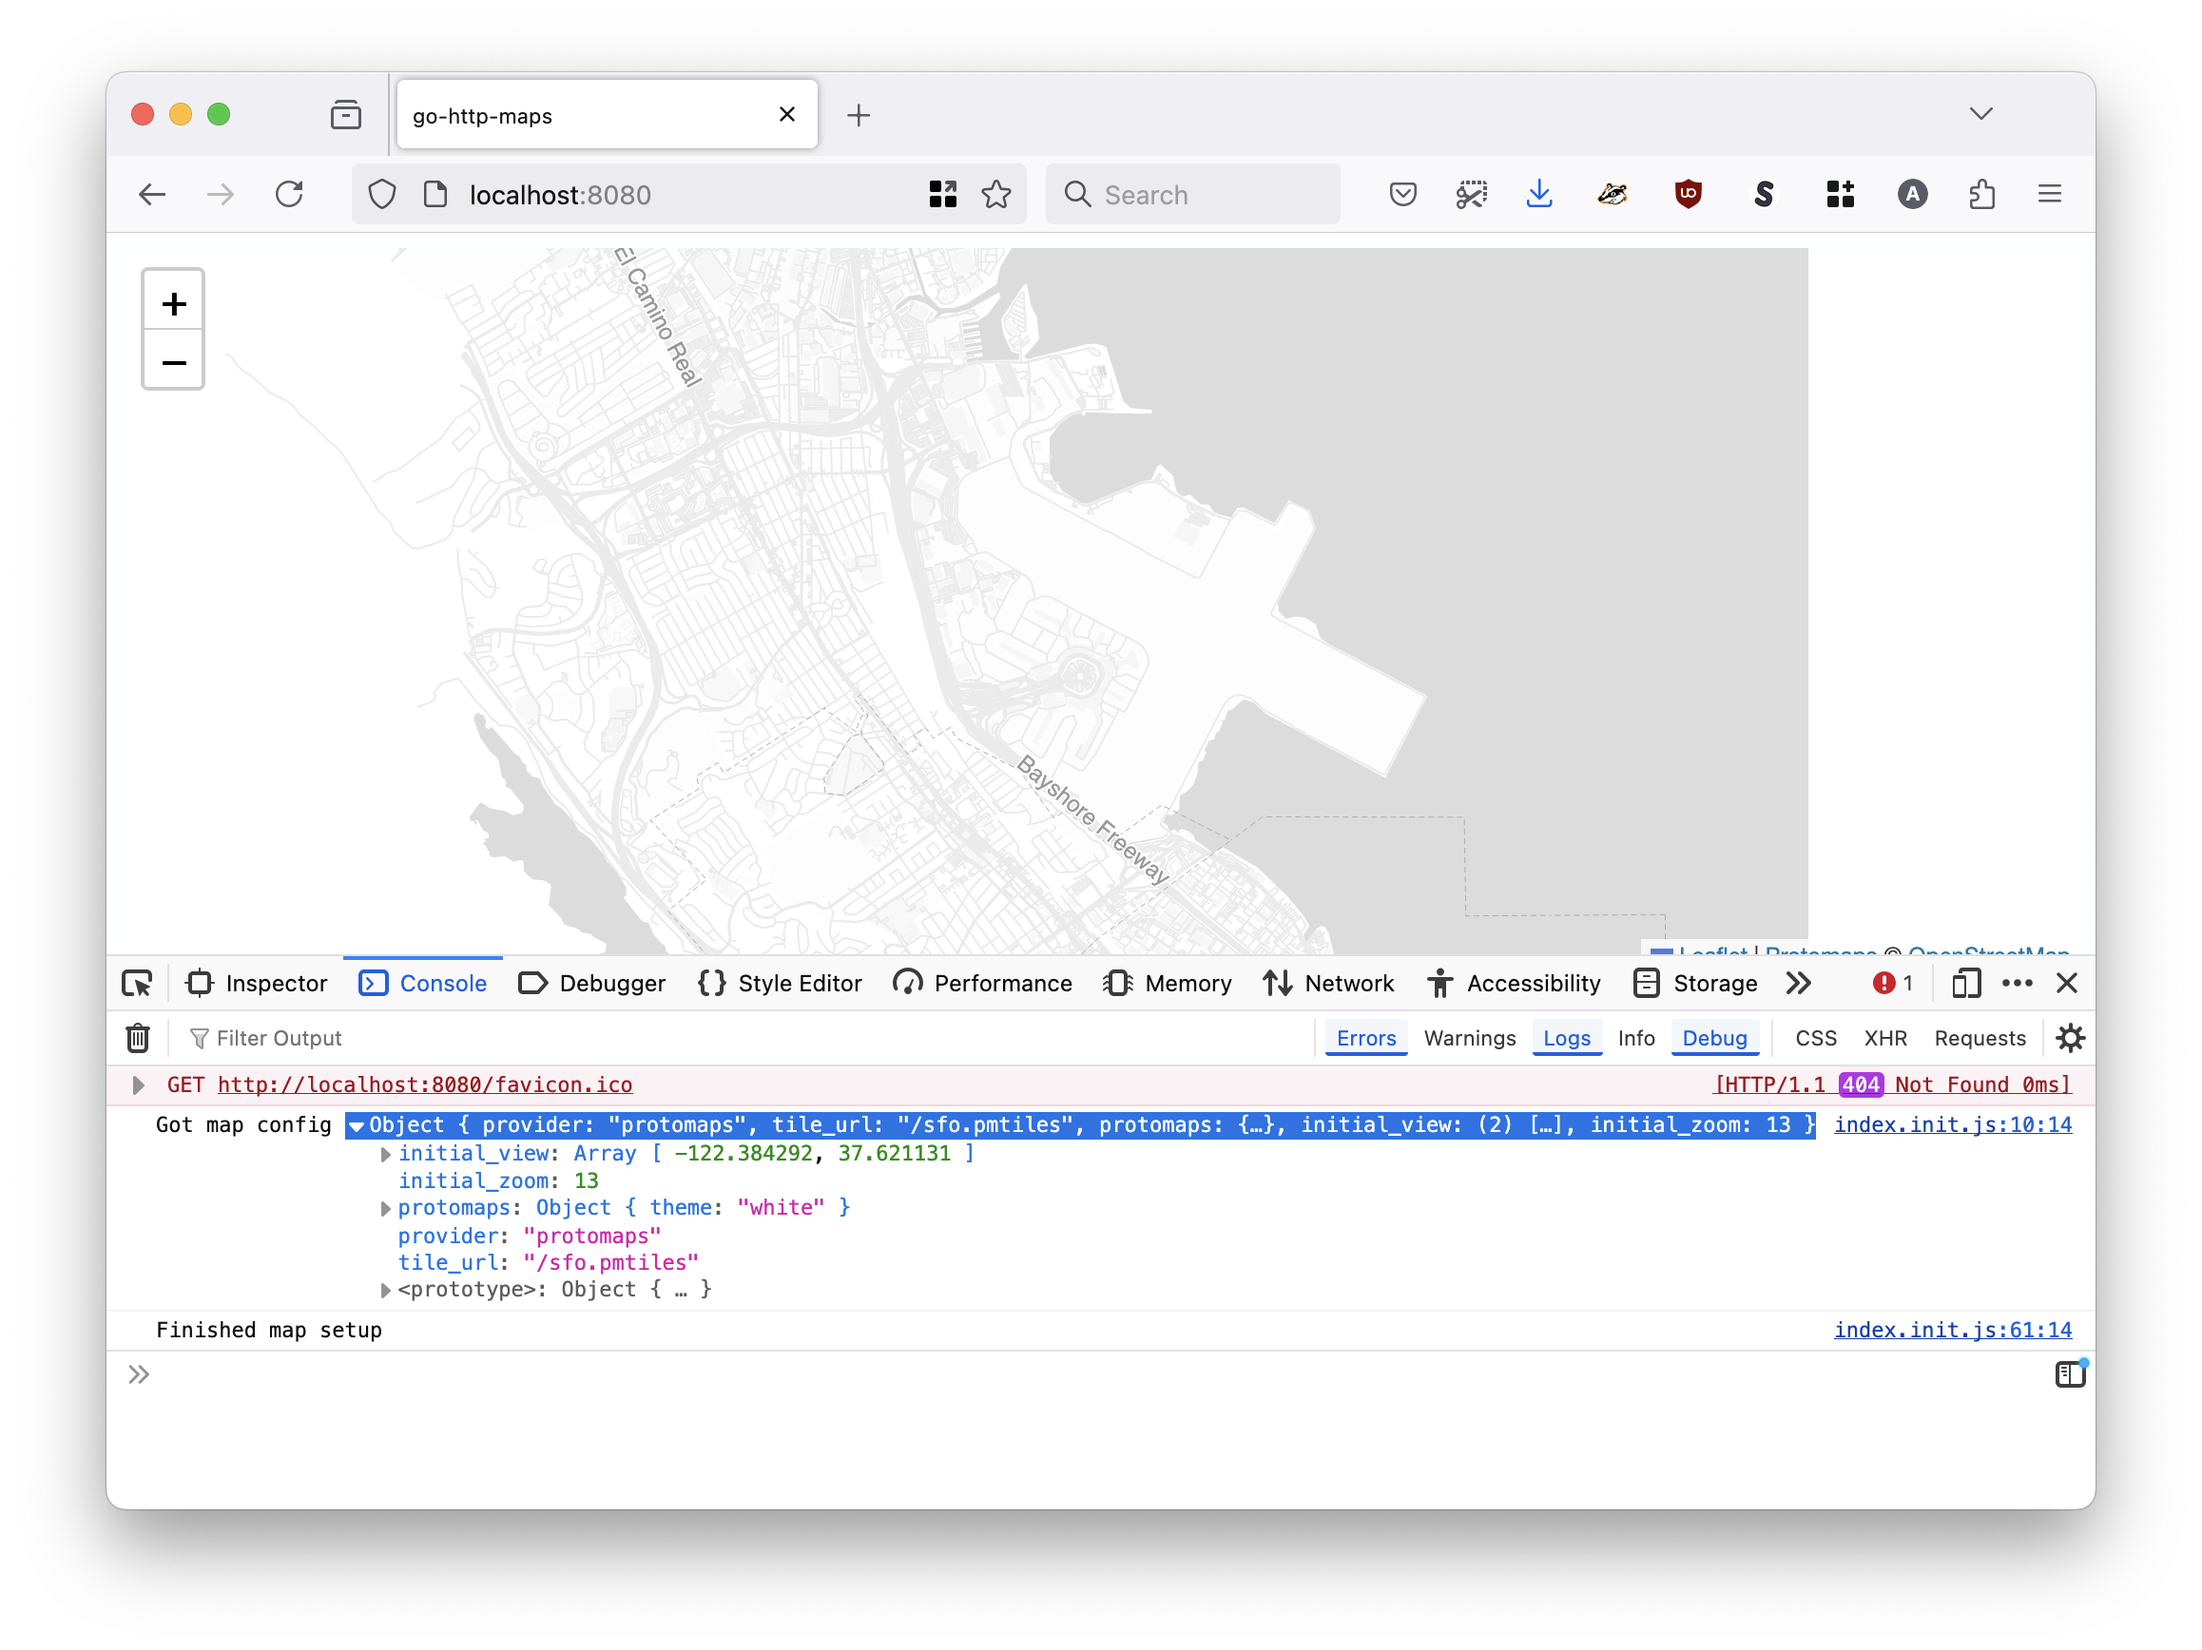
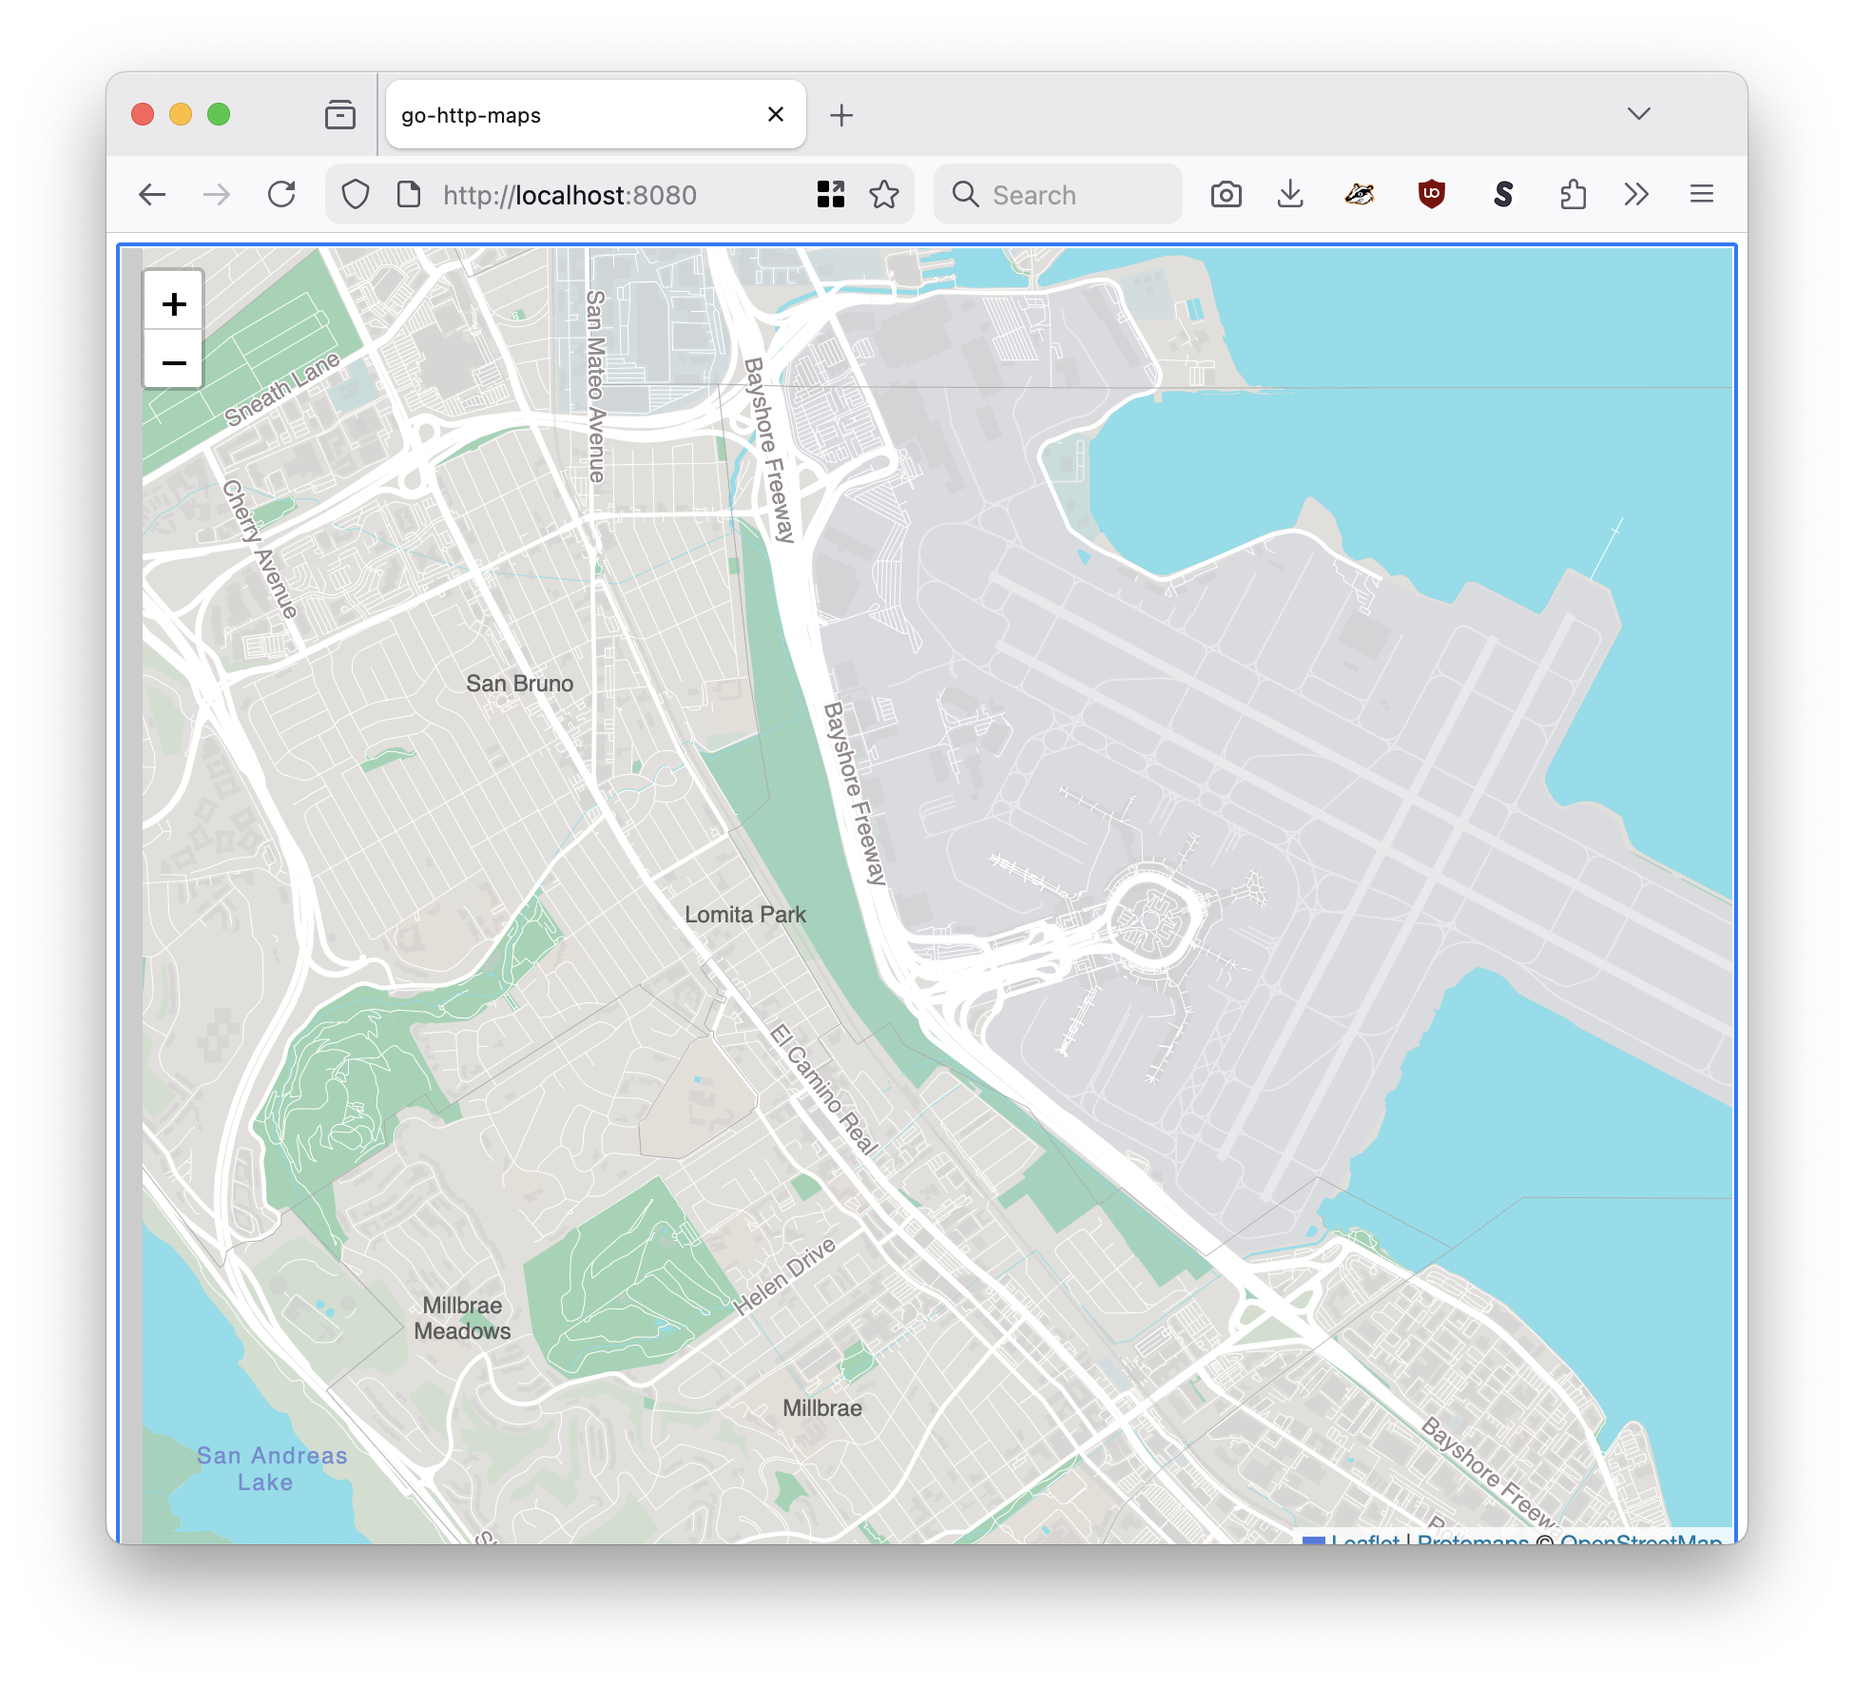
update docs

diff --git a/static/www/javascript/index.init.js b/static/www/javascript/index.init.js
@@ -26,81 +26,79 @@ window.addEventListener("load", function load(event){
 
 		case "protomaps":
 
-		    cfg.protomaps.theme = null;
-		    cfg.protomaps.paintRules = [
-			{
-			    dataLayer:"water",
-			    symbolizer:new protomapsL.PolygonSymbolizer({fill:"#354855"})
-			},
-			{
-			    dataLayer: "roads",
-			    symbolizer: new protomapsL.LineSymbolizer({color:"#fff"}),
-			},
-			{
-			    dataLayer: "landuse",
-			    symbolizer:new protomapsL.PolygonSymbolizer({fill:"#cccccc"})
-			},
-			{
-			    dataLayer: "landuse",
-			    symbolizer:new protomapsL.PolygonSymbolizer({fill:"#999"}),
-			    filter: (props, ignore) => {
-				
-				if (props["area:aeroway"] == "runway"){
-				    return true;
-				}
-				
-				if (props["area:aeroway"] == "taxiway"){
-				    return true;
-				}
-				
-				if (props["aeroway"] == "runway"){
-				    return true;
-				}
-				
-				if (props["aeroway"] == "aerodrome"){
-				    return true;
-				}
-				
-				return false;
-			    }
-			},
-			{
-			    dataLayer: "transit",
-			    symbolizer: new protomapsL.LineSymbolizer({color:"#000"}),
-			    filter: (props, ignore) => {
-				
-				if (props["pmap:kind"] = "aeroway"){
-				    return true;
-				}
-				
-				return false;
-			    }
-			}
-		    ];
-		    
 		    leaflet_map = L.map('map').setView(null_island, 1);
 
 		    var tile_args = {
 			url: cfg.tile_url,
+			flavor: cfg.protomaps.theme,
 		    };
 
-		    if (cfg.protomaps.theme){
-			tile_args.flavor = cfg.protomaps.theme;
-		    }
+		    var tile_layer = protomapsL.leafletLayer(tile_args);		    
+		    tile_layer.addTo(leaflet_map);
+		    break;
+		    
+		case "protomaps-paint":
 
-		    if (cfg.protomaps.paintRules){
-			tile_args.paintRules = cfg.protomaps.paintRules;
-		    }
-
-		    if (cfg.protomaps.labelRules){
-			tile_args.labelRules = cfg.protomaps.labelRules;
-		    }
+		    var tile_args = {
+			url: cfg.tile_url,
+			paintRules:  [
+			    {
+				dataLayer:"water",
+				symbolizer:new protomapsL.PolygonSymbolizer({fill:"#354855"})
+			    },
+			    {
+				dataLayer: "roads",
+				symbolizer: new protomapsL.LineSymbolizer({color:"#fff"}),
+			    },
+			    {
+				dataLayer: "landuse",
+				symbolizer:new protomapsL.PolygonSymbolizer({fill:"#cccccc"})
+			    },
+			    {
+				dataLayer: "landuse",
+				symbolizer:new protomapsL.PolygonSymbolizer({fill:"#999"}),
+				filter: (props, ignore) => {
+				    
+				    if (props["area:aeroway"] == "runway"){
+					return true;
+				    }
+				    
+				    if (props["area:aeroway"] == "taxiway"){
+					return true;
+				    }
+				    
+				    if (props["aeroway"] == "runway"){
+					return true;
+				    }
+				    
+				    if (props["aeroway"] == "aerodrome"){
+					return true;
+				    }
+				    
+				    return false;
+				}
+			    },
+			    {
+				dataLayer: "transit",
+				symbolizer: new protomapsL.LineSymbolizer({color:"#000"}),
+				filter: (props, ignore) => {
+				    
+				    if (props["pmap:kind"] = "aeroway"){
+					return true;
+				    }
+				    
+				    return false;
+				}
+			    }
+			],
+		    };
+			
+		    leaflet_map = L.map('map').setView(null_island, 1);
 		    
 		    var tile_layer = protomapsL.leafletLayer(tile_args);
 		    
 		    tile_layer.addTo(leaflet_map);
 		    break;
-
 
                 case "protomaps-raster":
 		    

diff --git a/http.go b/http.go
@@ -158,8 +158,8 @@ func MapConfigFromOptions(opts *AssignMapConfigHandlerOptions) (*MapConfig, erro
 		}
 	}
 
-	switch opts.MapProvider {
-	case "leaflet":
+	switch {
+	case opts.MapProvider == "leaflet":
 
 		if opts.LeafletStyle != "" || opts.LeafletPointStyle != "" {
 
@@ -190,7 +190,7 @@ func MapConfigFromOptions(opts *AssignMapConfigHandlerOptions) (*MapConfig, erro
 			map_cfg.Leaflet = leaflet_cfg
 		}
 
-	case "protomaps", "protomaps-ml", "protomaps-raster":
+	case strings.HasPrefix(opts.MapProvider, "protomaps"):
 
 		u, err := url.Parse(opts.MapTileURI)
 

diff --git a/README.md b/README.md
@@ -10,7 +10,7 @@ Go package providing opinionated HTTP middleware for web-based map tiles.
 
 The original motivation for the `go-http-maps` package was to define a handful of top-level methods and `net/http` middleware handlers to manage the drudegry of setting up maps, with a variety of map providers (Leaflet, Protomaps, Nextzen/Tangramjs), It "worked" but, in the end, it was also not "easy".
 
-Version 2 removes most of the functionality of the `go-http-maps` package and instead focuses on a handful of methods for providing a dynamic map "config" file (exposed as an HTTP endpoint) which can be from the browser.
+Version 2 removes most of the functionality of the `go-http-maps` package and instead focuses on a handful of methods for providing a dynamic map "config" file (exposed as an HTTP endpoint) which can be retrieved and processed from the browser.
 
 This package no longer provides static asset handlers for Leaflet or Protomaps. It is left up to you to bundle (and serve) them from your own code. You could, if you wanted, define a custom `http.Handler` instance to load those files from the `github.com/aaronland/go-http-maps/v2/static/www.FS` embedded filesystem but that's still something you'll need to do on your own.
 
@@ -119,7 +119,7 @@ The "nut" of it being this part:
 
 Which populates the `maps.AssignMapConfigHandlerOptions` with map-specific command line flags and passes those options (along with your `http.ServeMux` instance) to the `AssignMapConfigHandler` ethod. This method will validate all the options and create a new map config `http.Handler` assigning it to the `http.ServeMux` instance.
 
-If you are using Protomaps as your map provider and the corresponding `MapTileURI` starts with `file://` it will be assumed that you are trying to serve a local Protomaps database and a matching `http.Handler` will assign to the `http.ServeMux` instance.
+If your map provider start with "protomaps" and the corresponding `MapTileURI` starts with `file://` it will be assumed that you are trying to serve a local Protomaps database and a matching `http.Handler` will assign to the `http.ServeMux` instance.
 
 And then in your JavaScript code you would write something like this:
 
@@ -153,7 +153,7 @@ window.addEventListener("load", function load(event){
 
 		    var pm_args = {
                         url: tile_url,
-                        theme: cfg.protomaps.theme,
+                        flavor: cfg.protomaps.theme,
                     };
 
 		    // Necessary for "over-zooming"
@@ -216,12 +216,12 @@ go run cmd/example/main.go \
 2025/03/06 10:00:09 INFO Listening for requests address=localhost:8080
 ```
 
-### Protomaps
+### Protomaps (Leaflet)
 
 ![](docs/images/go-http-maps-protomaps.png)
 
 ```
-$> make example-protomaps
+$> make example-pm
 go run cmd/example/main.go \
 		-initial-view '-122.384292,37.621131,13' \
 		-map-provider protomaps \
@@ -230,3 +230,54 @@ go run cmd/example/main.go \
 2025/03/06 09:59:05 INFO Listening for requests address=localhost:8080
 ```
 
+_Note: The [protomaps/protomaps-leaflet](https://github.com/protomaps/protomaps-leaflet) JavaScript library has been put in maitainance mode. All new Protomaps features are only being added to the [PMTiles for MapLibre GL](https://docs.protomaps.com/pmtiles/maplibre) libraries._
+
+### Protomaps (Leaflet with custom paint rules)
+
+![](docs/images/go-http-maps-protomaps-paint.png)
+
+```
+$> make example-pm-paint
+go run cmd/example/main.go \
+		-initial-view '-122.384292,37.621131,13' \
+		-map-provider protomaps-paint \
+		-protomaps-max-data-zoom 14 \
+		-map-tile-uri 'file:///Users/asc/aaronland/go-http-maps/fixtures/sfo.pmtiles'
+2026/03/18 10:47:30 INFO Listening for requests address=localhost:8080
+```
+
+Custom paint (or label) rules are not part of the map "config" file and need to be added manually in your JavaScript code. See [static/www/javascript/index.init.js](static/www/javascript/index.init.js) for details.
+
+_Note: The [protomaps/protomaps-leaflet](https://github.com/protomaps/protomaps-leaflet) JavaScript library has been put in maitainance mode. All new Protomaps features are only being added to the [PMTiles for MapLibre GL](https://docs.protomaps.com/pmtiles/maplibre) libraries._
+
+### Protomaps (Leaflet with raster tiles)
+
+```
+$> make example-pm-raster
+go run cmd/example/main.go \
+		-initial-view '-122.384292,37.621131,13' \
+		-map-provider protomaps-raster \
+		-protomaps-max-data-zoom 14 \
+		-map-tile-uri https://static.sfomuseum.org/aerial/1936.pmtiles
+2026/03/18 10:47:59 INFO Listening for requests address=localhost:8080
+```
+
+![](docs/images/go-http-maps-protomaps-raster.png)
+
+_Note: The [protomaps/protomaps-leaflet](https://github.com/protomaps/protomaps-leaflet) JavaScript library has been put in maitainance mode. All new Protomaps features are only being added to the [PMTiles for MapLibre GL](https://docs.protomaps.com/pmtiles/maplibre) libraries._
+
+### Protomaps (MapLibre)
+
+![](docs/images/go-http-maps-protomaps-ml.png)
+
+```
+$> make example-pm-ml
+go run cmd/example/main.go \
+		-initial-view '-122.384292,37.621131,13' \
+		-map-provider protomaps-ml \
+		-protomaps-max-data-zoom 14 \
+		-map-tile-uri 'file:///Users/asc/aaronland/go-http-maps/fixtures/sfo.pmtiles'
+2026/03/18 10:48:13 INFO Listening for requests address=localhost:8080
+```
+
+MapLibre styling rules are not part of the map "config" file and need to be added manually in your JavaScript code. See [static/www/javascript/index.init.js](static/www/javascript/index.init.js) for details.
